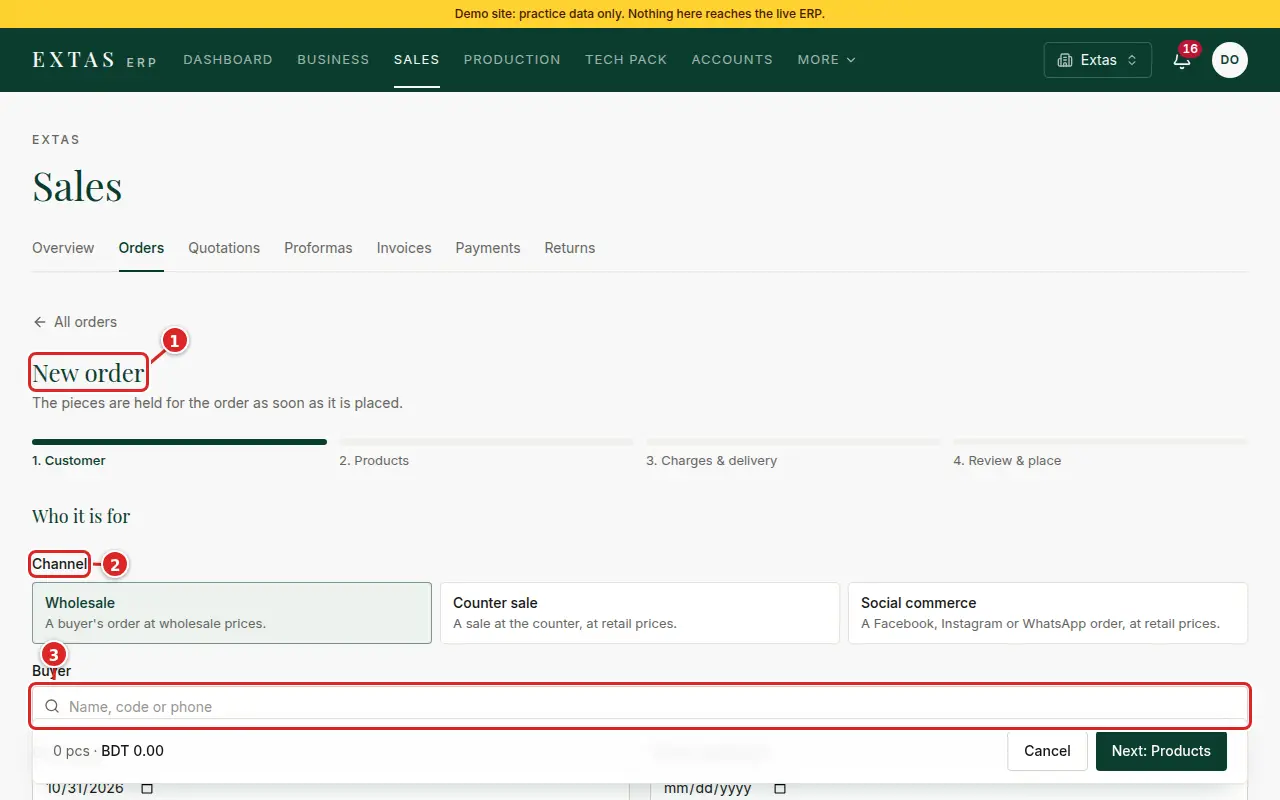
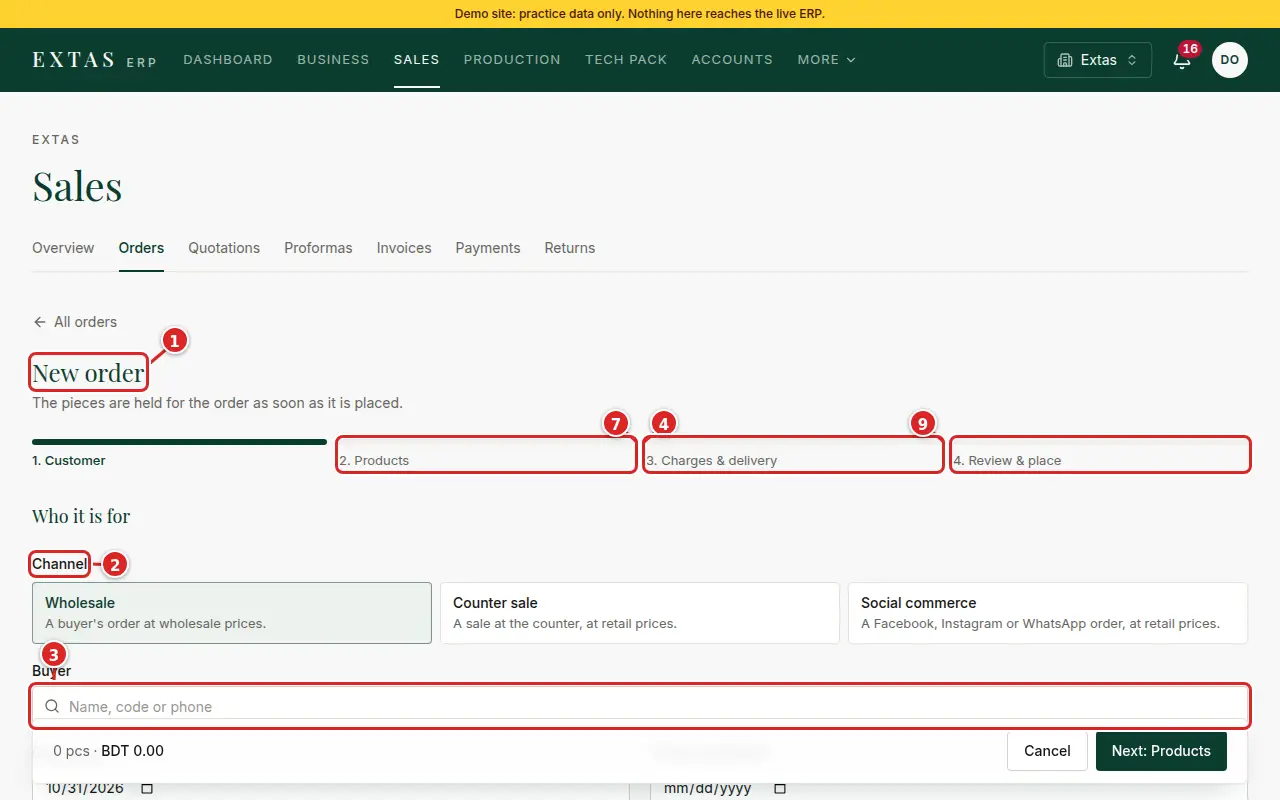
Fix the last test expectations and retake the order form's Help pictures
The order steps' buttons now say which step they are ("Step 2: Products"),
so screen readers name them on a phone too and the force-override guide's
picture marks the Products step again.

Claude-Session: https://claude.ai/code/session_01RKMVSrCq3pU5yCGC1dztxv

Changed region(s): [[0.25, 0.5, 1.0, 0.5938]]

diff --git a/tests/integration/dashboard.test.ts b/tests/integration/dashboard.test.ts
@@ -633,6 +633,7 @@ run("report builder", () => {
       "SALES",
       "PROFIT_AND_LOSS",
       "TOP_SELLERS",
+      "PRODUCTION_VS_READY",
       "STOCK_ALERTS",
     ]);
     expect(doc).toMatchObject({
@@ -745,7 +746,14 @@ run("report builder", () => {
       period: "TODAY",
       from: today(),
       to: today(),
-      metrics: ["SUMMARY", "SALES", "PROFIT_AND_LOSS", "TOP_SELLERS", "STOCK_ALERTS"],
+      metrics: [
+        "SUMMARY",
+        "SALES",
+        "PROFIT_AND_LOSS",
+        "TOP_SELLERS",
+        "PRODUCTION_VS_READY",
+        "STOCK_ALERTS",
+      ],
       options: { topLimit: 20, alertLimit: 50, slowDays: 90, coverDays: 180 },
       downloadable: true,
       fileName: `Extras - Business report - ${today()}.pdf`,

diff --git a/src/components/sales/order-form.tsx b/src/components/sales/order-form.tsx
@@ -186,6 +186,7 @@ function Steps({ step, onGo }: { step: number; onGo: (step: number) => void }) {
                 type="button"
                 onClick={() => done && onGo(index)}
                 disabled={!done}
+                aria-label={`Step ${index + 1}: ${label}`}
                 aria-current={index === step ? "step" : undefined}
                 className={cn(
                   "grid w-full gap-1.5 text-left outline-none focus-visible:ring-[3px] focus-visible:ring-ring/25",

diff --git a/tests/integration/reports-screens.test.ts b/tests/integration/reports-screens.test.ts
@@ -311,6 +311,9 @@ run("Reports & documents screens", () => {
       const tabs = visibleReportsTabs(ctx.permissions).map((t) => t.href);
       expect(tabs, who).toEqual([
         ...(k.reports ? ["/reports"] : []),
+        ...(ctx.can("dashboard.financials") || ctx.can("accounts.view")
+          ? ["/reports/production-vs-ready-stock"]
+          : []),
         ...(k.documents ? ["/reports/documents"] : []),
         ...(k.templates ? ["/reports/templates"] : []),
       ]);

diff --git a/tests/integration/parties-screens.test.ts b/tests/integration/parties-screens.test.ts
@@ -209,7 +209,7 @@ run("Buyers & suppliers screens", () => {
       expect(inMenu, who).toBe(view || ledgerView);
       const tabs = visiblePartiesTabs(ctx.permissions).map((t) => t.href);
       expect(tabs, who).toEqual([
-        ...(view ? ["/parties/buyers", "/parties/suppliers"] : []),
+        ...(view ? ["/parties/buyers", "/parties/suppliers", "/parties/other-suppliers"] : []),
         ...(ledgerView ? ["/parties/dues"] : []),
       ]);
 
